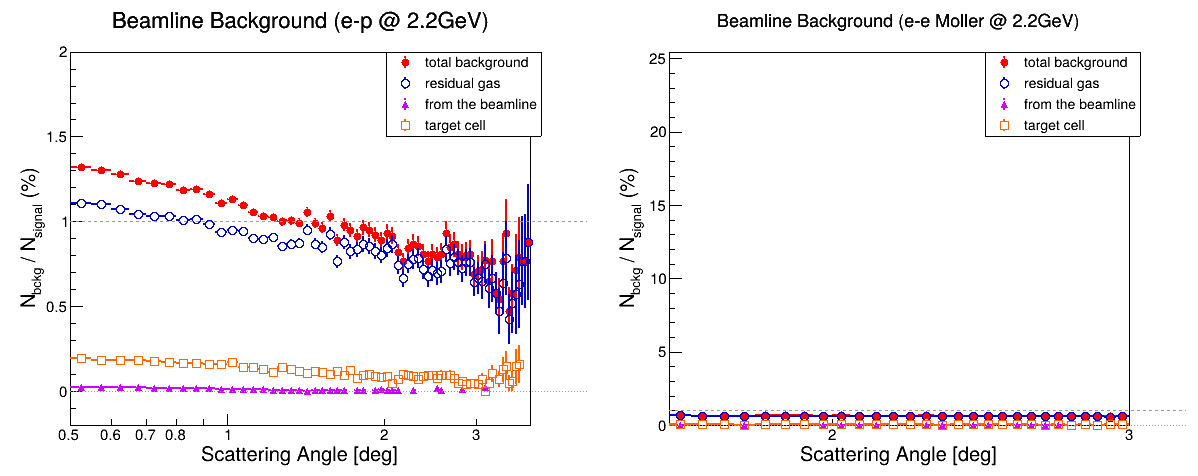
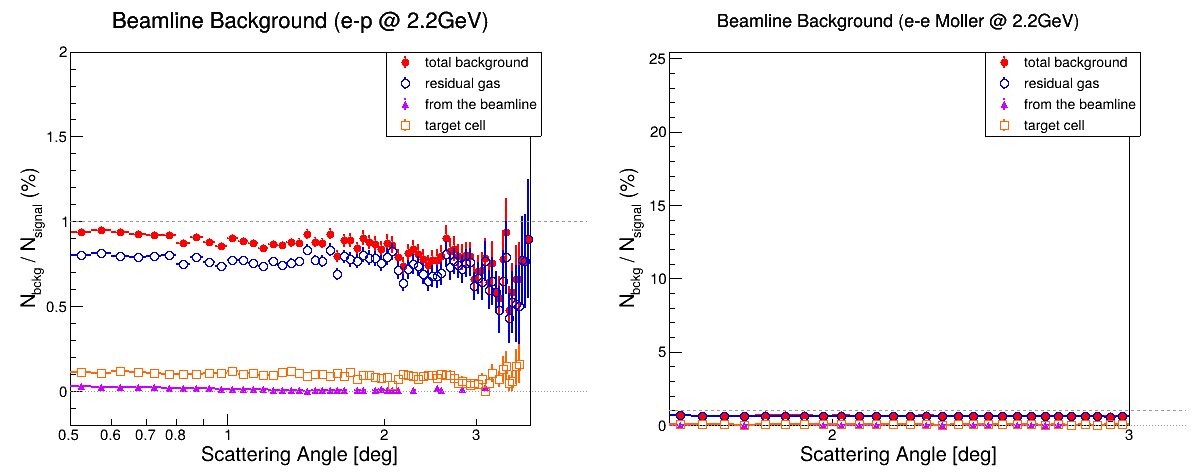
update

diff --git a/ana_test/vertex_recon_subtract.C b/ana_test/vertex_recon_subtract.C
@@ -1,0 +1,173 @@
+#include "../EventData.h"
+#include "../PhysicsTools.h"
+
+#include <algorithm>
+#include <cmath>
+#include <iostream>
+
+float Ebeam_subtract = 2243.5f; // MeV
+float resolution_subtract = 0.037f;
+
+static TH1F *makeVertexHist(const char *name, const char *label)
+{
+    TH1F *h = new TH1F(
+        name,
+        Form("%s Vertex Z;z_{vertex} (mm);Counts / charge", label),
+        500, -3500, 6500);
+    h->Sumw2();
+    h->SetDirectory(nullptr);
+    return h;
+}
+
+static bool fillVertexHist(const char *path, TH1F *h_vz)
+{
+    TFile *file = TFile::Open(path);
+    if (!file || file->IsZombie()) {
+        std::cerr << "Cannot open " << path << std::endl;
+        return false;
+    }
+
+    TTree *tree = (TTree*)file->Get("recon");
+    if (!tree) {
+        std::cerr << "Cannot find tree 'recon' in " << path << std::endl;
+        file->Close();
+        return false;
+    }
+
+    ReconEventData ev;
+    setupReconBranches(tree, ev);
+
+    const Long64_t nentries = tree->GetEntries();
+    for (Long64_t i = 0; i < nentries; i++) {
+        tree->GetEntry(i);
+
+        if (i % 10000 == 0) {
+            std::cout << "  " << path << ": " << i << " / " << nentries << "\r" << std::flush;
+        }
+
+        if (ev.n_clusters != 1) continue;
+        if (ev.matchNum != 1) continue;
+        if (!isMott(ev.cl_energy[0], Ebeam_subtract, resolution_subtract)) continue;
+        if (fabs(ev.cl_x[0]) < 20.25 * 2.5 && fabs(ev.cl_y[0]) < 20.25 * 2.5) continue;
+        if (fabs(ev.cl_x[0]) > 20.25 * 16. || fabs(ev.cl_y[0]) > 20.25 * 16.) continue;
+
+        const float x1 = ev.mHit_gx[0][1];
+        const float y1 = ev.mHit_gy[0][1];
+        const float z1 = ev.mHit_gz[0][1];
+        const float dx = ev.mHit_gx[0][0] - ev.mHit_gx[0][1];
+        const float dy = ev.mHit_gy[0][0] - ev.mHit_gy[0][1];
+        const float dz = ev.mHit_gz[0][0] - ev.mHit_gz[0][1];
+
+        const float den = dx * dx + dy * dy;
+        if (den < 1e-12f) continue;
+
+        const float t = -(x1 * dx + y1 * dy) / den;
+        const float vz = z1 + t * dz;
+        h_vz->Fill(vz);
+    }
+
+    std::cout << std::endl;
+    file->Close();
+    return true;
+}
+
+static void setHistStyle(TH1F *h, Color_t color, Style_t marker)
+{
+    h->SetStats(0);
+    h->SetLineColor(color);
+    h->SetMarkerColor(color);
+    h->SetMarkerStyle(marker);
+    h->SetLineWidth(2);
+}
+
+static void setOverlayRange(TH1F *h_frame, TH1F *h_a, TH1F *h_b, TH1F *h_sub)
+{
+    double ymin = 0.;
+    double ymax = 0.;
+    TH1F *hist[3] = { h_a, h_b, h_sub };
+
+    for (int ih = 0; ih < 3; ih++) {
+        for (int bin = 1; bin <= hist[ih]->GetNbinsX(); bin++) {
+            const double y = hist[ih]->GetBinContent(bin);
+            const double e = hist[ih]->GetBinError(bin);
+            ymin = std::min(ymin, y - e);
+            ymax = std::max(ymax, y + e);
+        }
+    }
+
+    const double span = ymax - ymin;
+    if (span <= 0.) {
+        ymin = -1.;
+        ymax = 1.;
+    } else {
+        ymin -= 0.12 * span;
+        ymax += 0.18 * span;
+    }
+
+    h_frame->GetYaxis()->SetRangeUser(ymin, ymax);
+}
+
+void vertex_recon_subtract(
+    const char *fileA = "../data/calib/prad_024713_recon.root",
+    double chargeA = 1.,
+    const char *fileB = "../data/calib/prad_024713_recon.root",
+    double chargeB = 1.,
+    const char *labelA = "A",
+    const char *labelB = "B")
+{
+    if (chargeA <= 0. || chargeB <= 0.) {
+        std::cerr << "Beam charge must be positive." << std::endl;
+        return;
+    }
+
+    TH1F *h_A = makeVertexHist("h_vz_A", labelA);
+    TH1F *h_B = makeVertexHist("h_vz_B", labelB);
+
+    if (!fillVertexHist(fileA, h_A)) return;
+    if (!fillVertexHist(fileB, h_B)) return;
+
+    h_A->Scale(1. / chargeA);
+    h_B->Scale(1. / chargeB);
+
+    TH1F *h_sub = (TH1F*)h_A->Clone("h_vz_AminusB");
+    h_sub->SetTitle(Form("Vertex Z: %s / Q_{%s} - %s / Q_{%s};z_{vertex} (mm);Counts / charge",
+                         labelA, labelA, labelB, labelB));
+    h_sub->Add(h_B, -1.);
+
+    setHistStyle(h_A, kBlue + 1, 20);
+    setHistStyle(h_B, kRed + 1, 21);
+    setHistStyle(h_sub, kBlack, 24);
+    h_sub->SetLineWidth(3);
+
+    gStyle->SetOptStat(0);
+
+    TCanvas *c = new TCanvas("c_vertex_subtract", "Charge-normalized vertex subtraction", 1000, 700);
+    c->cd();
+    setOverlayRange(h_sub, h_A, h_B, h_sub);
+
+    h_sub->Draw("E1");
+    h_A->Draw("HIST SAME");
+    h_B->Draw("HIST SAME");
+    h_sub->Draw("E1 SAME");
+
+    TLine *zero = new TLine(h_sub->GetXaxis()->GetXmin(), 0.,
+                            h_sub->GetXaxis()->GetXmax(), 0.);
+    zero->SetLineStyle(2);
+    zero->SetLineColor(kGray + 1);
+    zero->Draw("SAME");
+
+    TLegend *leg = new TLegend(0.58, 0.70, 0.88, 0.88);
+    leg->SetBorderSize(0);
+    leg->AddEntry(h_A, Form("%s / Q, Q = %.6g", labelA, chargeA), "l");
+    leg->AddEntry(h_B, Form("%s / Q, Q = %.6g", labelB, chargeB), "l");
+    leg->AddEntry(h_sub, Form("%s / Q - %s / Q", labelA, labelB), "lep");
+    leg->Draw();
+
+    TLatex *tex = new TLatex();
+    tex->SetNDC(1);
+    tex->SetTextSize(0.032);
+    tex->DrawLatex(0.14, 0.86, Form("%s: %s", labelA, fileA));
+    tex->DrawLatex(0.14, 0.81, Form("%s: %s", labelB, fileB));
+
+    c->SaveAs("vertex_recon_subtract.png");
+}

diff --git a/emptyTarget/compare_types.C b/emptyTarget/compare_types.C
@@ -7,9 +7,9 @@
 //   root -l 'emptyTarget/compare_types.C("pathA.root","pathB.root","pathC.root","pathD.root")'
 
 void compare_types(
-    const char *fileA = "June20_A.root",
-    const char *fileB = "June20_B.root",
-    const char *fileC = "June20_C.root",
+    const char *fileA = "June20_A_vertex.root",
+    const char *fileB = "June20_B_vertex.root",
+    const char *fileC = "June20_C_vertex.root",
     const char *fileD = "June20_D.root")
 {
     // ── Open files and clone histograms ──────────────────────────────────